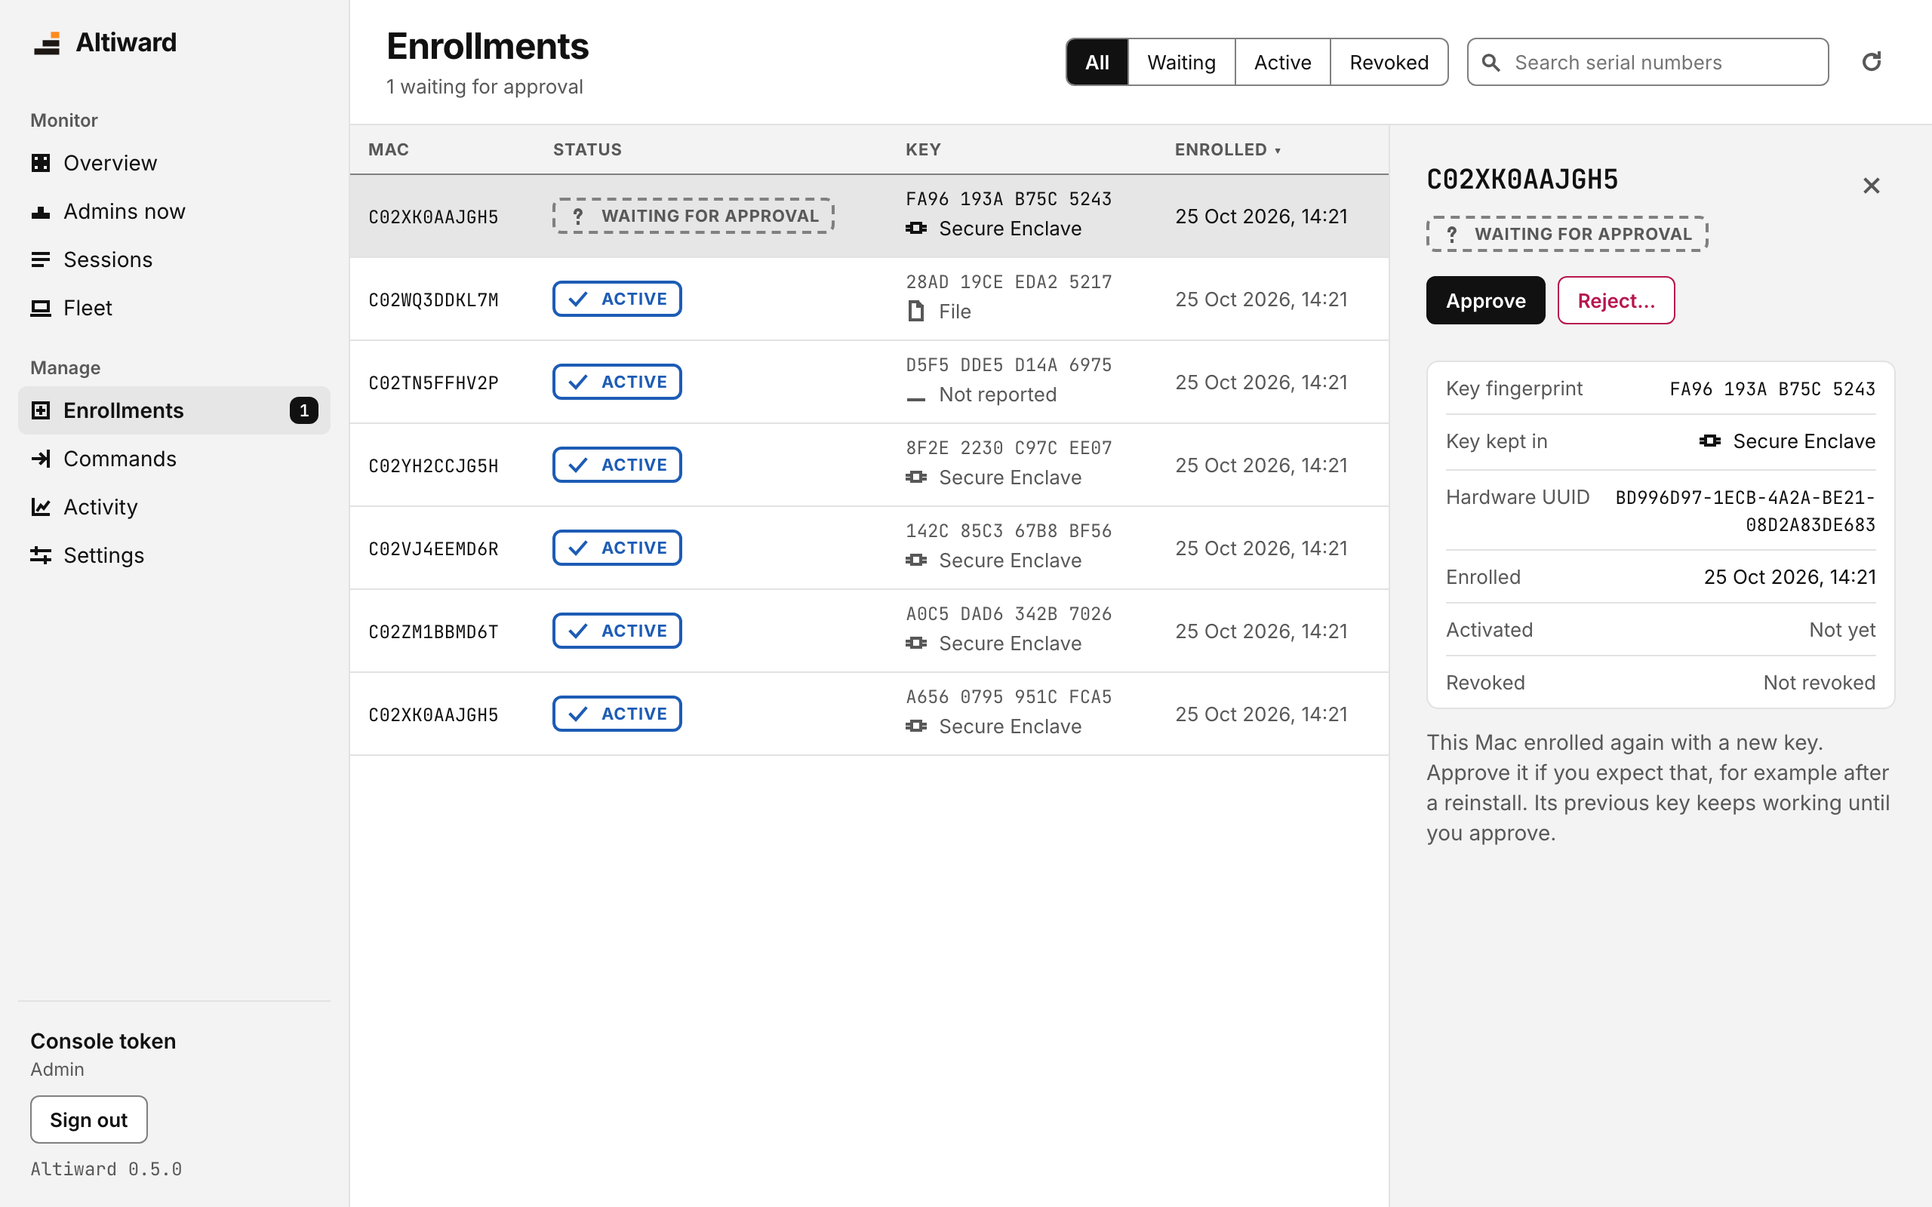
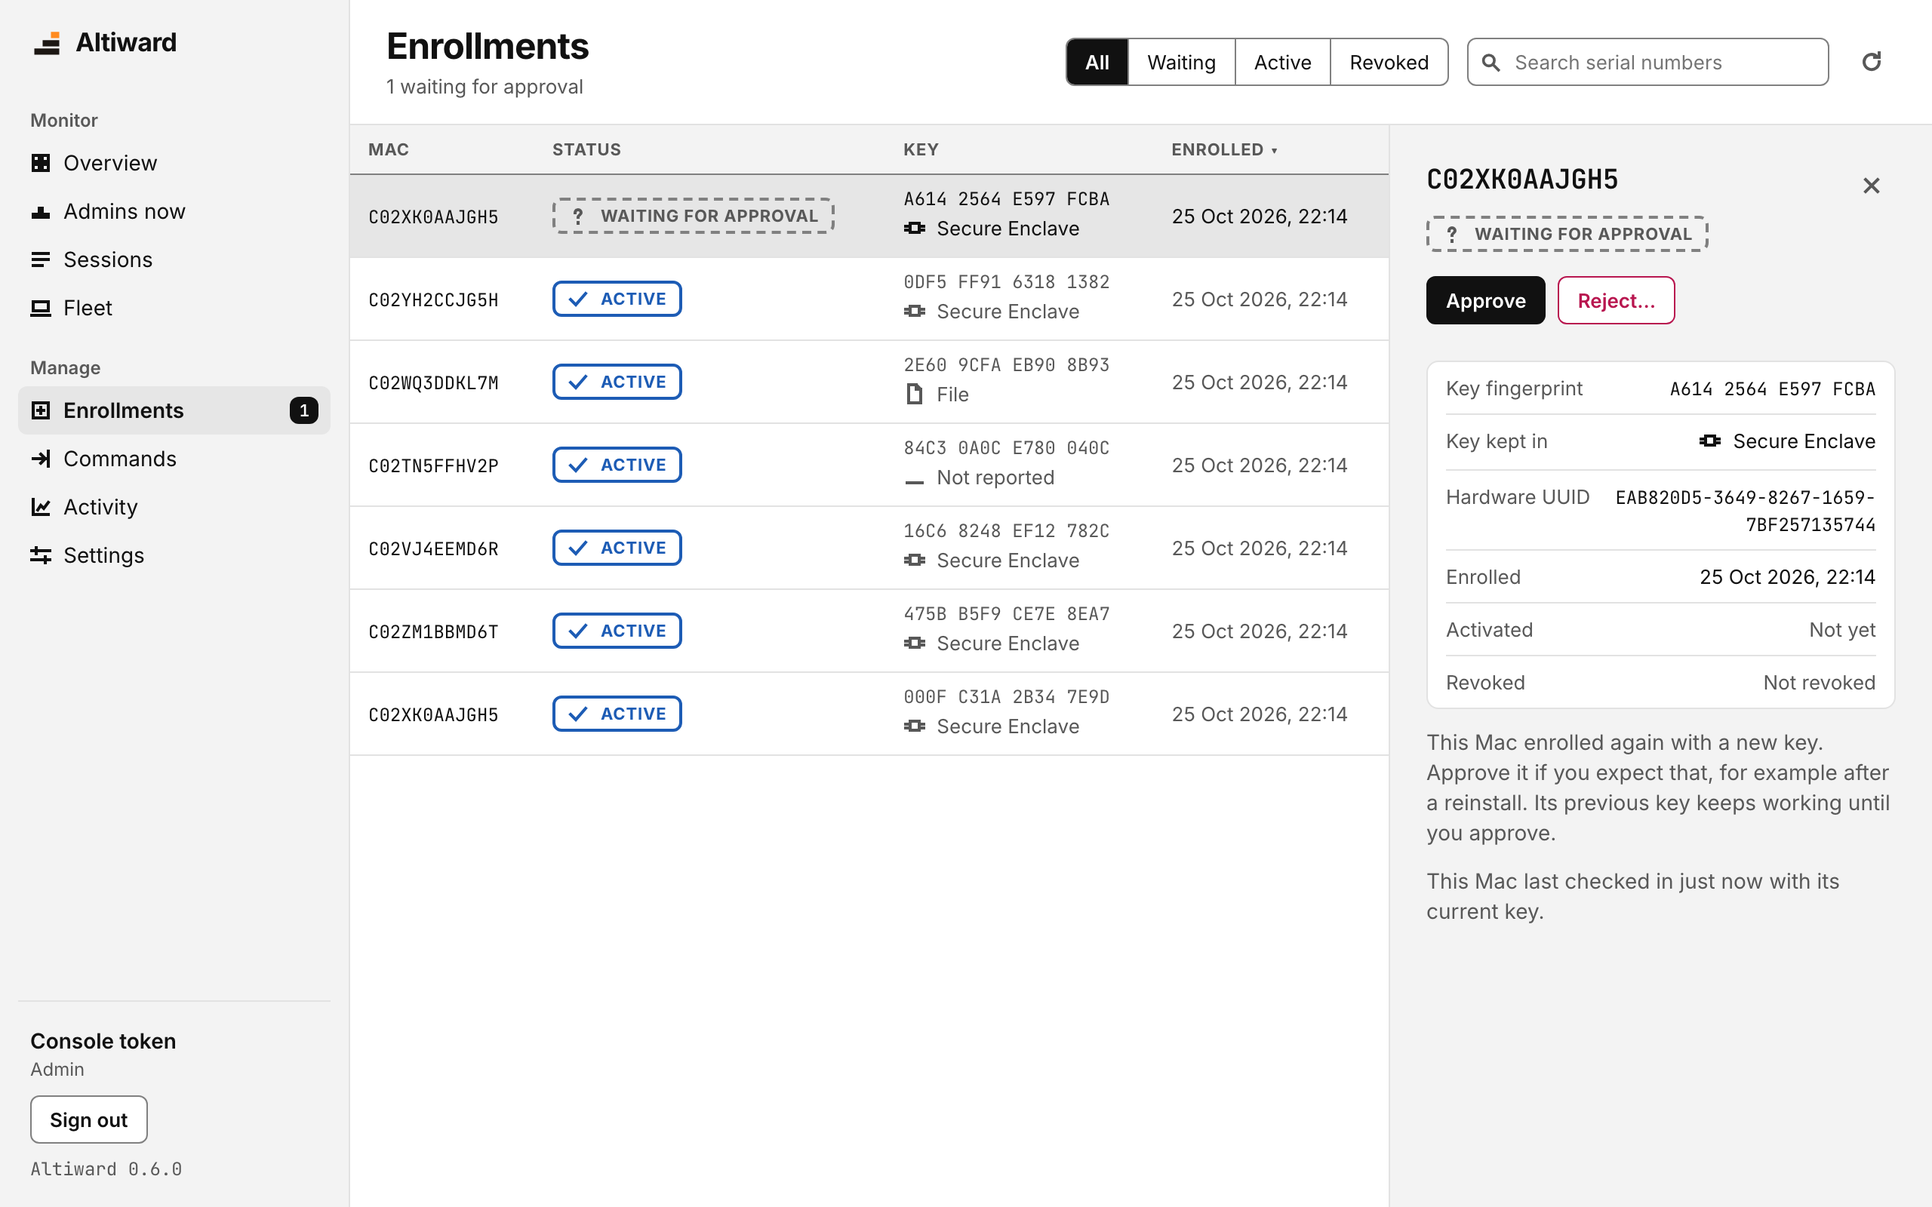
Show the evidence for a pending enrolment
A pending key now says when its Mac last checked in with its current key,
or that it has not checked in yet, using the devices list the Fleet view
loads. If that list does not load the line is left out. A key whose
hardware UUID differs from the Mac's active key shows a warning with both
UUIDs.

The Settings text for approving re-enrolments now says an attacker needs
the serial and the hardware UUID, since a different UUID is held for
approval even with approval off. The dev agent client derives each fake
Mac's hardware UUID from its serial, so the seed's reinstalled Mac looks
like the same hardware. The enrolment screenshots are regenerated.

diff --git a/console/src/views/Enrollments.test.tsx b/console/src/views/Enrollments.test.tsx
@@ -1,9 +1,9 @@
-import { render, screen, within } from "@testing-library/react";
+import { render, screen, waitFor, within } from "@testing-library/react";
 import userEvent from "@testing-library/user-event";
 import type { JSX } from "react";
 import { MemoryRouter } from "react-router";
 import { describe, expect, it, vi } from "vitest";
-import type { Enrollment } from "../api";
+import type { Device, Enrollment } from "../api";
 import { ApiContext } from "../context";
 import { fakeApi, session } from "../test/fixtures";
 import { AdminsNowView } from "./AdminsNow";
@@ -102,6 +102,109 @@ describe("Enrollments, where each key is kept", () => {
     await userEvent.click(rows.find((r) => r.closest("tr")?.textContent?.includes("Waiting"))!);
     expect(screen.getByRole("complementary", { name: "Enrollment details" }))
       .toHaveTextContent("The key this Mac uses now is in the Secure Enclave, but this new one isn’t.");
+  });
+});
+
+describe("Enrollments, the evidence for a pending key", () => {
+  const active: Enrollment = { ...pending, device_id: "d-active", status: "active", activated_at: "2026-10-01T00:00:00Z" };
+  const mac = (over: Partial<Device> = {}): Device => ({
+    serial: "C02XK0AAJGH5", hardware_uuid: "HW-1", os_version: "26.1.0", agent_version: "0.5.0", privileges_version: "2.6.0",
+    first_seen_at: "2026-10-01T00:00:00Z", last_seen_at: "2026-10-01T00:00:00Z", last_health_at: null,
+    admin_members: [], queue_depth: 0, privileges: {}, ...over,
+  });
+  const minutesAgo = (n: number) => new Date(Date.now() - n * 60_000).toISOString();
+  const openPending = async () => {
+    const rows = await screen.findAllByText("C02XK0AAJGH5");
+    await userEvent.click(rows.find((r) => r.closest("tr")?.textContent?.includes("Waiting"))!);
+    return screen.getByRole("complementary", { name: "Enrollment details" });
+  };
+
+  it("says when the Mac last checked in with its current key", async () => {
+    renderView(fakeApi({
+      enrollments: vi.fn(async () => [pending, active]),
+      devices: vi.fn(async () => [mac({ last_received_at: minutesAgo(4) })]),
+    }), <EnrollmentsView />);
+    const inspector = await openPending();
+    expect(await within(inspector).findByText("This Mac last checked in 4 minutes ago with its current key.")).toBeInTheDocument();
+  });
+
+  it("uses the check-in time the Fleet view shows, by the server's clock first", async () => {
+    renderView(fakeApi({
+      enrollments: vi.fn(async () => [pending, active]),
+      devices: vi.fn(async () => [mac({ last_seen_at: minutesAgo(90), last_health_at: minutesAgo(30), last_received_at: minutesAgo(2) })]),
+    }), <EnrollmentsView />);
+    const inspector = await openPending();
+    expect(await within(inspector).findByText("This Mac last checked in 2 minutes ago with its current key.")).toBeInTheDocument();
+  });
+
+  it("says so when the Mac hasn't checked in yet", async () => {
+    renderView(fakeApi({ enrollments: vi.fn(async () => [pending]), devices: vi.fn(async () => []) }), <EnrollmentsView />);
+    const inspector = await openPending();
+    expect(await within(inspector).findByText("This Mac hasn't checked in yet.")).toBeInTheDocument();
+    expect(inspector).not.toHaveTextContent("last checked in");
+  });
+
+  it("leaves the check-in line out when the devices don't load, and still lets you approve", async () => {
+    const api = fakeApi({
+      enrollments: vi.fn(async () => [pending, active]),
+      devices: vi.fn(async () => { throw new Error("devices are down"); }),
+      approveEnrollment: vi.fn(async () => ({ ...pending, status: "active" as const })),
+    });
+    renderView(api, <EnrollmentsView />);
+    const inspector = await openPending();
+    await waitFor(() => expect(api.devices).toHaveBeenCalled());
+    expect(inspector).not.toHaveTextContent(/last checked in|hasn't checked in/);
+    expect(screen.queryByText("devices are down")).toBeNull();
+    expect(screen.queryByRole("alert")).toBeNull();
+    await userEvent.click(within(inspector).getByRole("button", { name: "Approve" }));
+    expect(api.approveEnrollment).toHaveBeenCalledWith("d-pending");
+  });
+
+  it("only shows the check-in line for a key waiting for approval", async () => {
+    renderView(fakeApi({
+      enrollments: vi.fn(async () => [pending, active]),
+      devices: vi.fn(async () => [mac({ last_received_at: minutesAgo(4) })]),
+    }), <EnrollmentsView />);
+    const pendingInspector = await openPending();
+    // The devices have loaded once the pending key shows its line.
+    expect(await within(pendingInspector).findByText(/last checked in 4 minutes ago/)).toBeInTheDocument();
+    await userEvent.click(within(pendingInspector).getByRole("button", { name: "Close details" }));
+
+    const rows = screen.getAllByText("C02XK0AAJGH5");
+    await userEvent.click(rows.find((r) => r.closest("tr")?.textContent?.includes("Active"))!);
+    const activeInspector = screen.getByRole("complementary", { name: "Enrollment details" });
+    expect(within(activeInspector).getByText("Key kept in")).toBeInTheDocument();
+    expect(activeInspector).not.toHaveTextContent("checked in");
+  });
+
+  it("warns, with a word and a glyph, when the new key reports different hardware", async () => {
+    const changed: Enrollment = { ...pending, hardware_uuid: "HW-NEW" };
+    renderView(fakeApi({
+      enrollments: vi.fn(async () => [changed, { ...active, hardware_uuid: "HW-OLD" }]),
+    }), <EnrollmentsView />);
+    const inspector = await openPending();
+    const warning = within(inspector).getByText(
+      "The new key reports a different hardware UUID (HW-NEW, was HW-OLD). Expect this only after a logic board replacement.",
+    );
+    const tag = warning.closest("p")!.querySelector(".tag")!;
+    expect(tag).toHaveTextContent("Warning");
+    expect(tag.querySelector("svg")).not.toBeNull();
+  });
+
+  it("doesn't warn when the hardware is the same", async () => {
+    renderView(fakeApi({ enrollments: vi.fn(async () => [pending, active]) }), <EnrollmentsView />);
+    expect(await openPending()).not.toHaveTextContent("different hardware UUID");
+  });
+
+  it("doesn't warn when there is no active key to compare with", async () => {
+    renderView(fakeApi({ enrollments: vi.fn(async () => [{ ...pending, hardware_uuid: "HW-NEW" }]) }), <EnrollmentsView />);
+    expect(await openPending()).not.toHaveTextContent("different hardware UUID");
+  });
+
+  it("compares with this Mac's active key, not another Mac's", async () => {
+    const other: Enrollment = { ...active, device_id: "d-other", serial: "SERIAL-OTHER", hardware_uuid: "HW-OTHER" };
+    renderView(fakeApi({ enrollments: vi.fn(async () => [pending, active, other]) }), <EnrollmentsView />);
+    expect(await openPending()).not.toHaveTextContent("different hardware UUID");
   });
 });
 

diff --git a/console/src/views/Enrollments.tsx b/console/src/views/Enrollments.tsx
@@ -1,14 +1,14 @@
 import { type JSX, useMemo, useState } from "react";
-import type { CredentialStatus, Enrollment, KeyStorage } from "../api";
+import type { CredentialStatus, Device, Enrollment, KeyStorage } from "../api";
 import { Banner, Details, Empty, Explain, Missing, RoleNote, SearchField, Segmented, Toolbar } from "../components/Chrome";
 import { Fingerprint } from "../components/Fingerprint";
-import { ChipGlyph, CloseIcon, EndedGlyph, FileGlyph } from "../components/Icons";
+import { AttentionGlyph, ChipGlyph, CloseIcon, EndedGlyph, FileGlyph } from "../components/Icons";
 import { ConfirmSheet } from "../components/Sheet";
 import { StateBadge } from "../components/StateBadge";
 import { Table } from "../components/Table";
 import { useApi, useCan } from "../context";
 import { explanations } from "../explanations";
-import { dateTime } from "../format";
+import { dateTime, lastCheckIn, relativeTimeInWords } from "../format";
 import { useLoad } from "../useLoad";
 
 type Filter = CredentialStatus | "all";
@@ -29,6 +29,9 @@ function KeyKeptIn({ storage }: { storage: KeyStorage }) {
 export function EnrollmentsView({ onChanged }: { onChanged?: () => void }) {
   const api = useApi();
   const { data, error, reload } = useLoad(() => api.enrollments(), [], 30_000);
+  // Evidence for the inspector only: if the devices don't load, it leaves that out and
+  // the rest of the view works as before.
+  const devices = useLoad(() => api.devices(), [], 30_000);
   const [filter, setFilter] = useState<Filter>("all");
   const [query, setQuery] = useState("");
   const [selected, setSelected] = useState<string | null>(null);
@@ -44,7 +47,7 @@ export function EnrollmentsView({ onChanged }: { onChanged?: () => void }) {
 
   return (
     <>
-      <Toolbar title="Enrollments" subtitle={pending ? `${pending} waiting for approval` : undefined} onRefresh={reload}>
+      <Toolbar title="Enrollments" subtitle={pending ? `${pending} waiting for approval` : undefined} onRefresh={() => { void reload(); void devices.reload(); }}>
         <Segmented label="Show" value={filter} onChange={setFilter} options={[
           { value: "all", title: "All" }, { value: "pending", title: "Waiting" },
           { value: "active", title: "Active" }, { value: "revoked", title: "Revoked" },
@@ -79,10 +82,8 @@ export function EnrollmentsView({ onChanged }: { onChanged?: () => void }) {
           )}
         </div>
         {current && (
-          <EnrollmentInspector enrollment={current} onClose={() => setSelected(null)}
-            newMac={!(data ?? []).some((e) => e.serial === current.serial && e.device_id !== current.device_id && e.status === "active")}
-            replacesEnclaveKey={(data ?? []).some((e) => e.serial === current.serial && e.device_id !== current.device_id &&
-              e.status === "active" && e.key_storage === "secure_enclave")}
+          <EnrollmentInspector enrollment={current} onClose={() => setSelected(null)} devices={devices.data}
+            active={(data ?? []).find((e) => e.serial === current.serial && e.device_id !== current.device_id && e.status === "active")}
             onDone={(text) => { setDone(text); void reload(); onChanged?.(); }} />
         )}
       </div>
@@ -91,12 +92,16 @@ export function EnrollmentsView({ onChanged }: { onChanged?: () => void }) {
 }
 
 /** A Mac's credentials: a pending one for a Mac with no active one is a new Mac; a
- *  re-enrollment replaces the Mac's active key when approved. */
-function EnrollmentInspector({ enrollment: e, newMac, replacesEnclaveKey, onClose, onDone }: {
-  enrollment: Enrollment; newMac: boolean; replacesEnclaveKey: boolean; onClose: () => void;
+ *  re-enrollment replaces the Mac's `active` key when approved. `devices` is null until
+ *  the Fleet's list has loaded, or if it can't. */
+function EnrollmentInspector({ enrollment: e, active, devices, onClose, onDone }: {
+  enrollment: Enrollment; active: Enrollment | undefined; devices: Device[] | null; onClose: () => void;
   onDone: (message: string) => void;
 }) {
   const api = useApi();
+  const newMac = !active;
+  const replacesEnclaveKey = active?.key_storage === "secure_enclave";
+  const device = devices?.find((d) => d.serial === e.serial);
   const [confirming, setConfirming] = useState(false);
   const [busy, setBusy] = useState(false);
   const [error, setError] = useState<string | null>(null);
@@ -171,6 +176,19 @@ function EnrollmentInspector({ enrollment: e, newMac, replacesEnclaveKey, onClos
       {e.status === "pending" && newMac && (
         <p className="secondary" style={{ marginTop: 12 }}>
           This Mac is waiting for approval. Approve it to start recording it.
+        </p>
+      )}
+      {e.status === "pending" && devices && (
+        <p className="secondary" style={{ marginTop: 12 }}>
+          {device
+            ? `This Mac last checked in ${relativeTimeInWords(lastCheckIn(device))} with its current key.`
+            : "This Mac hasn't checked in yet."}
+        </p>
+      )}
+      {e.status === "pending" && active && e.hardware_uuid !== active.hardware_uuid && (
+        <p className="secondary" style={{ marginTop: 12 }}>
+          <span className="tag attention"><AttentionGlyph /> Warning</span>{" "}
+          {`The new key reports a different hardware UUID (${e.hardware_uuid}, was ${active.hardware_uuid}). Expect this only after a logic board replacement.`}
         </p>
       )}
       {confirming && (

diff --git a/console/src/format.ts b/console/src/format.ts
@@ -1,6 +1,6 @@
 // Display helpers. Labels follow the brand book: sentence case, plain words.
 
-import type { Command } from "./api";
+import type { Command, Device } from "./api";
 
 export function formatDuration(seconds: number): string {
   const s = Math.max(0, Math.round(seconds));
@@ -13,13 +13,33 @@ export function formatDuration(seconds: number): string {
   return h % 24 ? `${d} d ${h % 24} h` : `${d} d`;
 }
 
-export function relativeTime(iso: string, now: Date = new Date()): string {
+/** How long ago, in whole minutes, hours or days; null inside the first minute. */
+function age(iso: string, now: Date): { count: number; unit: "minute" | "hour" | "day" } | null {
   const seconds = (now.getTime() - new Date(iso).getTime()) / 1000;
-  if (seconds < 60) return "Just now";
-  if (seconds < 3600) return `${Math.floor(seconds / 60)} min ago`;
-  if (seconds < 86400) return `${Math.floor(seconds / 3600)} h ago`;
-  return `${Math.floor(seconds / 86400)} d ago`;
+  if (seconds < 60) return null;
+  if (seconds < 3600) return { count: Math.floor(seconds / 60), unit: "minute" };
+  if (seconds < 86400) return { count: Math.floor(seconds / 3600), unit: "hour" };
+  return { count: Math.floor(seconds / 86400), unit: "day" };
 }
+
+const shortUnits = { minute: "min", hour: "h", day: "d" };
+
+/** For tables and short lines: "3 min ago". */
+export function relativeTime(iso: string, now: Date = new Date()): string {
+  const a = age(iso, now);
+  return a ? `${a.count} ${shortUnits[a.unit]} ago` : "Just now";
+}
+
+/** For a sentence: "3 minutes ago", "just now". */
+export function relativeTimeInWords(iso: string, now: Date = new Date()): string {
+  const a = age(iso, now);
+  return a ? `${a.count} ${a.unit}${a.count === 1 ? "" : "s"} ago` : "just now";
+}
+
+/** When a Mac last checked in. By the server's clock when known, so a Mac whose clock is
+ *  wrong doesn't look late. */
+export const lastCheckIn = (d: Pick<Device, "last_received_at" | "last_health_at" | "last_seen_at">) =>
+  d.last_received_at ?? d.last_health_at ?? d.last_seen_at;
 
 /** `empty` is what to show when there's no date: a caller that knows why says so. */
 export function dateTime(iso: string | null | undefined, empty = "Unknown"): string {

diff --git a/console/src/format.test.ts b/console/src/format.test.ts
@@ -1,7 +1,7 @@
 import { describe, expect, it } from "vitest";
 import type { Command } from "./api";
 import {
-  agentOutdated, commandOutcome, dateTime, endReasonLabel, expiresAfter, flagLabel, formatDuration, gauge, integrityCheckLabel, permanentUseMethodLabel, persistenceLines, relativeTime, shortFingerprint, tamperStateLabel,
+  agentOutdated, commandOutcome, dateTime, endReasonLabel, expiresAfter, flagLabel, formatDuration, gauge, integrityCheckLabel, lastCheckIn, permanentUseMethodLabel, persistenceLines, relativeTime, relativeTimeInWords, shortFingerprint, tamperStateLabel,
 } from "./format";
 
 // A missing value is a word that says why (#105).
@@ -47,6 +47,28 @@ describe("relativeTime", () => {
     ["2026-10-16T10:00:00Z", "2 h ago"],
     ["2026-10-14T12:00:00Z", "2 d ago"],
   ])("%s is %s", (iso, want) => expect(relativeTime(iso, now)).toBe(want));
+});
+
+describe("relativeTimeInWords", () => {
+  const now = new Date("2026-10-16T12:00:00Z");
+  it.each([
+    ["2026-10-16T11:59:40Z", "just now"],
+    ["2026-10-16T11:59:00Z", "1 minute ago"],
+    ["2026-10-16T11:56:00Z", "4 minutes ago"],
+    ["2026-10-16T11:00:00Z", "1 hour ago"],
+    ["2026-10-16T10:00:00Z", "2 hours ago"],
+    ["2026-10-15T12:00:00Z", "1 day ago"],
+    ["2026-10-14T12:00:00Z", "2 days ago"],
+  ])("%s is %s", (iso, want) => expect(relativeTimeInWords(iso, now)).toBe(want));
+});
+
+describe("lastCheckIn", () => {
+  const mac = { last_seen_at: "2026-10-16T09:00:00Z", last_health_at: "2026-10-16T10:00:00Z", last_received_at: "2026-10-16T11:00:00Z" };
+  it("prefers the server's clock, then the newest health reading, then the newest event", () => {
+    expect(lastCheckIn(mac)).toBe("2026-10-16T11:00:00Z");
+    expect(lastCheckIn({ ...mac, last_received_at: undefined })).toBe("2026-10-16T10:00:00Z");
+    expect(lastCheckIn({ ...mac, last_received_at: undefined, last_health_at: null })).toBe("2026-10-16T09:00:00Z");
+  });
 });
 
 describe("gauge", () => {

diff --git a/console/src/views/Fleet.tsx b/console/src/views/Fleet.tsx
@@ -9,15 +9,13 @@ import { Table } from "../components/Table";
 import { useApi, useCan } from "../context";
 import { checkTips, persistenceCheckTip } from "../explanations";
 import {
-  agentOutdated, dateTime, expiresAfter, integrityCheckLabel, permanentUseMethodLabel, relativeTime, revokeNotice, tamperStateLabel,
+  agentOutdated, dateTime, expiresAfter, integrityCheckLabel, lastCheckIn, permanentUseMethodLabel, relativeTime, revokeNotice, tamperStateLabel,
 } from "../format";
 import { useCommandResult } from "../useCommandResult";
 import { useLoad } from "../useLoad";
 
 /** The agent checks in every 5 minutes; three missed check-ins is worth a look. */
 const STALE_MS = 15 * 60 * 1000;
-/** By the server's clock when known, so a Mac whose clock is wrong doesn't look late. */
-const lastCheckIn = (d: Device) => d.last_received_at ?? d.last_health_at ?? d.last_seen_at;
 const isStale = (d: Device, now = Date.now()) => now - new Date(lastCheckIn(d)).getTime() > STALE_MS;
 /** The server raised agent.silent and the Mac hasn't checked in since. */
 const silent = (d: Device) => d.silence?.state === "silent";

diff --git a/console/src/views/Settings.tsx b/console/src/views/Settings.tsx
@@ -95,8 +95,8 @@ function GeneralSettings() {
               <p className="hint">
                 On by default and recommended. A new key for a Mac that enrolled before waits for approval
                 in Enrollments; its current key keeps reporting. Turning this off lets anyone with the
-                enrolment token replace an enrolled Mac's identity by naming its serial. First enrolments
-                still use the shared token: check them against your device inventory.
+                enrolment token replace an enrolled Mac's identity by naming its serial and hardware UUID.
+                First enrolments still use the shared token: check them against your device inventory.
               </p>
             </span>
             <input type="checkbox" role="switch" disabled={!data || saving || !canChange}

diff --git a/console/src/views/Settings.test.tsx b/console/src/views/Settings.test.tsx
@@ -61,6 +61,7 @@ describe("Settings", () => {
     await waitFor(() => expect(approval).toBeEnabled());
     expect(approval).toBeChecked();
     expect(screen.getByText(/Turning this off lets anyone with the enrolment token/)).toBeInTheDocument();
+    expect(screen.getByText(/by naming its serial and hardware UUID\./)).toBeInTheDocument();
     await userEvent.click(approval);
     expect(api.putSettings).toHaveBeenCalledWith({
       reenrollment_requires_approval: false, silent_after_hours: 48, silent_alerts_off: false,
